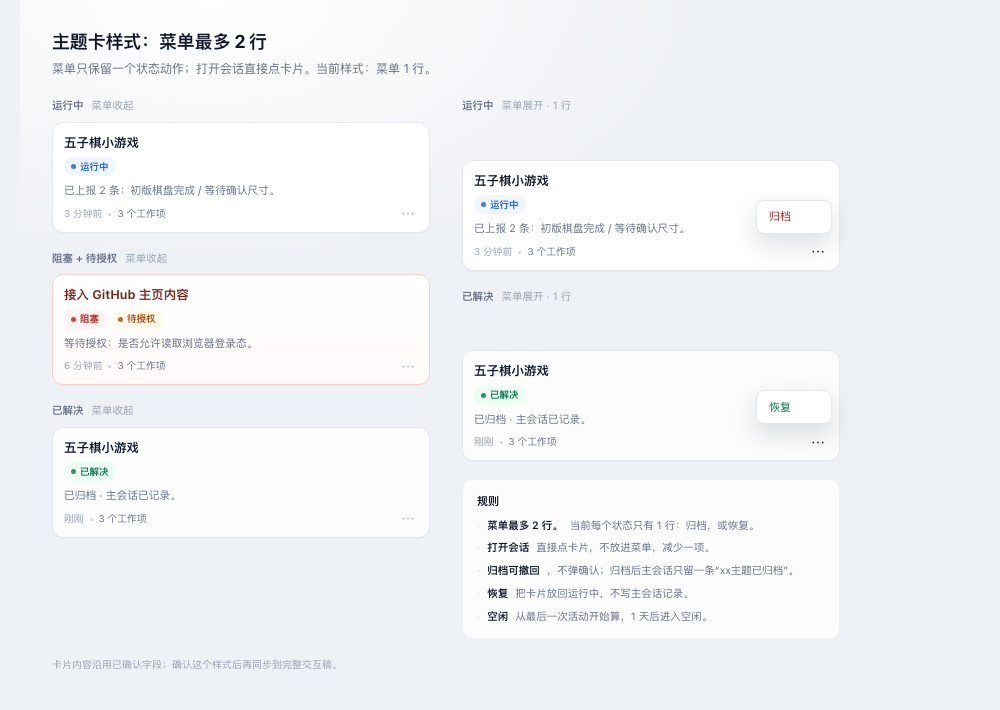
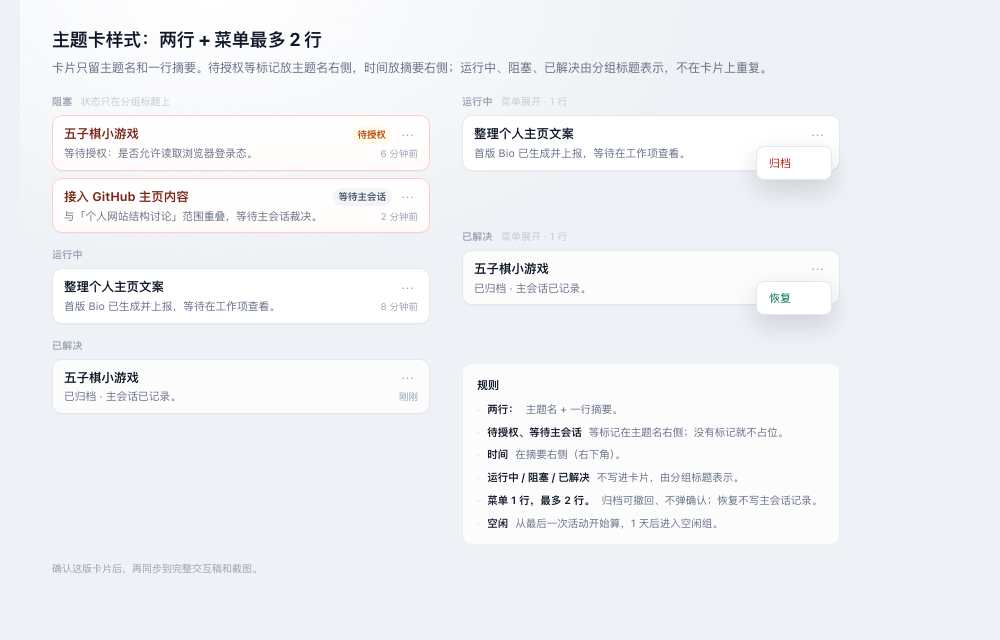
docs(design): 主题卡收成两行样式
主题卡只留主题名和一行摘要；待授权等标记放主题名右侧，时间放摘要右侧；
运行中、阻塞、已解决由分组标题表示，卡片不再重复状态和工作项数。
完整交互稿等这版样式确认后再同步。

diff --git a/docs/discussion/topic-card-style.html b/docs/discussion/topic-card-style.html
@@ -2,7 +2,7 @@
 <html lang="zh-CN">
 <head>
 <meta charset="utf-8">
-<title>主题卡样式：菜单最多 2 行</title>
+<title>主题卡样式：两行 + 菜单最多 2 行</title>
 <style>
   :root {
     --ink: #101828;
@@ -12,8 +12,6 @@
     --line-soft: #eef0f3;
     --canvas: #eef1f5;
     --card: #fff;
-    --blue: #175cd3;
-    --blue-soft: #eff6ff;
     --red: #b42318;
     --red-soft: #fef3f2;
     --amber: #b54708;
@@ -33,73 +31,100 @@
   .canvas {
     width: 960px;
     margin: 0 auto;
-    padding: 28px 32px 30px;
+    padding: 26px 32px;
     background:
       radial-gradient(700px 380px at 20% 0%, #ffffff 0%, rgba(255,255,255,0) 70%),
       var(--canvas);
   }
-  header { margin-bottom: 20px; }
+  header { margin-bottom: 16px; }
   h1 { margin: 0; font-size: 18px; font-weight: 700; letter-spacing: -.01em; }
-  .sub { margin-top: 5px; color: var(--muted); font-size: 12px; }
+  .sub { margin-top: 5px; max-width: 820px; color: var(--muted); font-size: 12px; line-height: 1.7; }
   .grid { display: flex; gap: 32px; align-items: flex-start; }
   .col { width: 378px; flex: none; }
-  .row { margin-bottom: 18px; }
-  .label { display: flex; align-items: center; gap: 8px; margin-bottom: 8px; color: var(--muted); font-size: 10.5px; font-weight: 600; }
-  .label span { color: var(--soft); font-weight: 400; }
+
+  .group-label {
+    display: flex;
+    align-items: center;
+    gap: 8px;
+    margin: 0 0 6px;
+    color: var(--soft);
+    font-size: 10px;
+    font-weight: 650;
+    letter-spacing: .03em;
+  }
+  .group-label span { color: #c3c9d4; font-weight: 400; letter-spacing: 0; }
+  .group-block { margin-bottom: 14px; }
+  .group-block .card + .card { margin-top: 7px; }
 
   .card {
     position: relative;
-    padding: 11px 11px 10px;
+    padding: 9px 11px 8px;
     border: 1px solid var(--line);
-    border-radius: 11px;
+    border-radius: 10px;
     background: var(--card);
     box-shadow: 0 1px 1px rgba(16, 24, 40, .025);
   }
   .card.blocked { border-color: #fecdca; background: linear-gradient(180deg, #fff 0%, #fffbfa 100%); }
   .card.resolved { background: #fcfcfd; }
-  .title { margin: 0 0 6px; font-size: 12.5px; font-weight: 650; line-height: 1.4; }
+  .head { display: flex; align-items: center; gap: 6px; }
+  .title {
+    flex: 1;
+    min-width: 0;
+    margin: 0;
+    font-size: 12.5px;
+    font-weight: 650;
+    line-height: 1.5;
+    white-space: nowrap;
+    overflow: hidden;
+    text-overflow: ellipsis;
+  }
   .card.blocked .title { color: #7a271a; }
-  .chips { display: flex; flex-wrap: wrap; gap: 5px; margin-bottom: 6px; }
-  .chip {
-    display: inline-flex;
-    align-items: center;
-    gap: 4px;
-    height: 19px;
-    padding: 0 7px;
+  .marker {
+    flex: none;
+    height: 18px;
+    padding: 0 6px;
     border-radius: 999px;
     font-size: 9.5px;
-    font-weight: 650;
+    line-height: 18px;
+    font-weight: 600;
     white-space: nowrap;
   }
-  .chip::before { content: ""; width: 5px; height: 5px; border-radius: 50%; background: currentColor; opacity: .8; }
-  .chip.red { color: var(--red); background: var(--red-soft); }
-  .chip.amber { color: var(--amber); background: var(--amber-soft); }
-  .chip.blue { color: var(--blue); background: var(--blue-soft); }
-  .chip.green { color: var(--green); background: var(--green-soft); }
-  .chip.gray { color: #475467; background: var(--gray-soft); }
-  .digest { margin: 0 0 8px; color: #667085; font-size: 10.75px; line-height: 1.55; }
-  .meta { display: flex; align-items: center; justify-content: space-between; gap: 8px; color: var(--soft); font-size: 9.75px; }
-  .meta .left { display: flex; align-items: center; gap: 6px; }
-  .dot { width: 3px; height: 3px; border-radius: 50%; background: #d0d5dd; }
-  .work { color: #667085; }
+  .marker.amber { color: var(--amber); background: var(--amber-soft); }
+  .marker.gray { color: #475467; background: var(--gray-soft); }
   .more {
-    padding: 0 2px;
+    flex: none;
+    width: 20px;
+    height: 18px;
+    padding: 0;
     border: 0;
+    border-radius: 5px;
     background: transparent;
     color: #98a2b3;
     font: inherit;
-    font-size: 14px;
-    line-height: 1;
+    font-size: 13px;
+    line-height: 18px;
     letter-spacing: 1px;
     cursor: pointer;
   }
-  .more.on { color: var(--ink); }
+  .more:hover { background: var(--gray-soft); color: var(--ink); }
+  .body { display: flex; align-items: baseline; gap: 10px; margin-top: 1px; }
+  .summary {
+    flex: 1;
+    min-width: 0;
+    margin: 0;
+    color: var(--muted);
+    font-size: 10.75px;
+    line-height: 1.55;
+    white-space: nowrap;
+    overflow: hidden;
+    text-overflow: ellipsis;
+  }
+  .time { flex: none; color: var(--soft); font-size: 9.5px; }
 
-  .card.has-menu { margin-top: 46px; }
   .menu {
     position: absolute;
+    top: 30px;
     right: 7px;
-    bottom: 36px;
     z-index: 3;
     min-width: 76px;
     padding: 3px;
@@ -126,9 +151,10 @@
   .menu button:hover { background: var(--gray-soft); }
   .menu .archive { color: var(--red); }
   .menu .restore { color: var(--green); }
+  .menu-row { margin-bottom: 58px; }
 
   .notes {
-    margin-top: 4px;
+    margin-top: 2px;
     padding: 13px 14px;
     border: 1px solid var(--line-soft);
     border-radius: 10px;
@@ -139,82 +165,99 @@
   .notes li { display: flex; gap: 7px; color: var(--muted); font-size: 10.5px; line-height: 1.6; }
   .notes li::before { content: "·"; color: #c3c9d4; }
   .notes b { color: var(--ink); font-weight: 600; }
-  .foot { margin-top: 18px; color: var(--soft); font-size: 10px; }
+  .foot { margin-top: 16px; color: var(--soft); font-size: 10px; }
 </style>
 </head>
 <body>
 <div class="canvas">
   <header>
-    <h1>主题卡样式：菜单最多 2 行</h1>
-    <div class="sub">菜单只保留一个状态动作；打开会话直接点卡片。当前样式：菜单 1 行。</div>
+    <h1>主题卡样式：两行 + 菜单最多 2 行</h1>
+    <div class="sub">卡片只留主题名和一行摘要。待授权等标记放主题名右侧，时间放摘要右侧；运行中、阻塞、已解决由分组标题表示，不在卡片上重复。</div>
   </header>
 
   <div class="grid">
     <div class="col">
-      <div class="row">
-        <div class="label">运行中 <span>菜单收起</span></div>
-        <article class="card">
-          <h3 class="title">五子棋小游戏</h3>
-          <div class="chips"><span class="chip blue">运行中</span></div>
-          <p class="digest">已上报 2 条：初版棋盘完成 / 等待确认尺寸。</p>
-          <div class="meta">
-            <span class="left">3 分钟前<span class="dot"></span><span class="work">3 个工作项</span></span>
-            <button class="more" aria-label="主题菜单">⋯</button>
-          </div>
-        </article>
-      </div>
-
-      <div class="row">
-        <div class="label">阻塞 + 待授权 <span>菜单收起</span></div>
+      <div class="group-block">
+        <div class="group-label">阻塞 <span>状态只在分组标题上</span></div>
         <article class="card blocked">
-          <h3 class="title">接入 GitHub 主页内容</h3>
-          <div class="chips"><span class="chip red">阻塞</span><span class="chip amber">待授权</span></div>
-          <p class="digest">等待授权：是否允许读取浏览器登录态。</p>
-          <div class="meta">
-            <span class="left">6 分钟前<span class="dot"></span><span class="work">3 个工作项</span></span>
+          <div class="head">
+            <h3 class="title">五子棋小游戏</h3>
+            <span class="marker amber">待授权</span>
             <button class="more" aria-label="主题菜单">⋯</button>
+          </div>
+          <div class="body">
+            <p class="summary">等待授权：是否允许读取浏览器登录态。</p>
+            <span class="time">6 分钟前</span>
+          </div>
+        </article>
+        <article class="card blocked">
+          <div class="head">
+            <h3 class="title">接入 GitHub 主页内容</h3>
+            <span class="marker gray">等待主会话</span>
+            <button class="more" aria-label="主题菜单">⋯</button>
+          </div>
+          <div class="body">
+            <p class="summary">与「个人网站结构讨论」范围重叠，等待主会话裁决。</p>
+            <span class="time">2 分钟前</span>
           </div>
         </article>
       </div>
 
-      <div class="row">
-        <div class="label">已解决 <span>菜单收起</span></div>
-        <article class="card resolved">
-          <h3 class="title">五子棋小游戏</h3>
-          <div class="chips"><span class="chip green">已解决</span></div>
-          <p class="digest">已归档 · 主会话已记录。</p>
-          <div class="meta">
-            <span class="left">刚刚<span class="dot"></span><span class="work">3 个工作项</span></span>
+      <div class="group-block">
+        <div class="group-label">运行中</div>
+        <article class="card">
+          <div class="head">
+            <h3 class="title">整理个人主页文案</h3>
             <button class="more" aria-label="主题菜单">⋯</button>
+          </div>
+          <div class="body">
+            <p class="summary">首版 Bio 已生成并上报，等待在工作项查看。</p>
+            <span class="time">8 分钟前</span>
+          </div>
+        </article>
+      </div>
+
+      <div class="group-block">
+        <div class="group-label">已解决</div>
+        <article class="card resolved">
+          <div class="head">
+            <h3 class="title">五子棋小游戏</h3>
+            <button class="more" aria-label="主题菜单">⋯</button>
+          </div>
+          <div class="body">
+            <p class="summary">已归档 · 主会话已记录。</p>
+            <span class="time">刚刚</span>
           </div>
         </article>
       </div>
     </div>
 
     <div class="col">
-      <div class="row">
-        <div class="label">运行中 <span>菜单展开 · 1 行</span></div>
-        <article class="card has-menu">
-          <h3 class="title">五子棋小游戏</h3>
-          <div class="chips"><span class="chip blue">运行中</span></div>
-          <p class="digest">已上报 2 条：初版棋盘完成 / 等待确认尺寸。</p>
-          <div class="meta">
-            <span class="left">3 分钟前<span class="dot"></span><span class="work">3 个工作项</span></span>
-            <button class="more on" aria-label="主题菜单">⋯</button>
+      <div class="menu-row">
+        <div class="group-label">运行中 <span>菜单展开 · 1 行</span></div>
+        <article class="card">
+          <div class="head">
+            <h3 class="title">整理个人主页文案</h3>
+            <button class="more" aria-label="主题菜单">⋯</button>
+          </div>
+          <div class="body">
+            <p class="summary">首版 Bio 已生成并上报，等待在工作项查看。</p>
+            <span class="time">8 分钟前</span>
           </div>
           <div class="menu"><button class="archive">归档</button></div>
         </article>
       </div>
 
-      <div class="row">
-        <div class="label">已解决 <span>菜单展开 · 1 行</span></div>
-        <article class="card resolved has-menu">
-          <h3 class="title">五子棋小游戏</h3>
-          <div class="chips"><span class="chip green">已解决</span></div>
-          <p class="digest">已归档 · 主会话已记录。</p>
-          <div class="meta">
-            <span class="left">刚刚<span class="dot"></span><span class="work">3 个工作项</span></span>
-            <button class="more on" aria-label="主题菜单">⋯</button>
+      <div class="menu-row">
+        <div class="group-label">已解决 <span>菜单展开 · 1 行</span></div>
+        <article class="card resolved">
+          <div class="head">
+            <h3 class="title">五子棋小游戏</h3>
+            <button class="more" aria-label="主题菜单">⋯</button>
+          </div>
+          <div class="body">
+            <p class="summary">已归档 · 主会话已记录。</p>
+            <span class="time">刚刚</span>
           </div>
           <div class="menu"><button class="restore">恢复</button></div>
         </article>
@@ -223,17 +266,18 @@
       <div class="notes">
         <h2>规则</h2>
         <ul>
-          <li><b>菜单最多 2 行。</b>当前每个状态只有 1 行：归档，或恢复。</li>
-          <li><b>打开会话</b>直接点卡片，不放进菜单，减少一项。</li>
-          <li><b>归档可撤回</b>，不弹确认；归档后主会话只留一条“xx主题已归档”。</li>
-          <li><b>恢复</b>把卡片放回运行中，不写主会话记录。</li>
-          <li><b>空闲</b>从最后一次活动开始算，1 天后进入空闲。</li>
+          <li><b>两行：</b>主题名 + 一行摘要。</li>
+          <li><b>待授权、等待主会话</b>等标记在主题名右侧；没有标记就不占位。</li>
+          <li><b>时间</b>在摘要右侧（右下角）。</li>
+          <li><b>运行中 / 阻塞 / 已解决</b>不写进卡片，由分组标题表示。</li>
+          <li><b>菜单 1 行，最多 2 行。</b>归档可撤回、不弹确认；恢复不写主会话记录。</li>
+          <li><b>空闲</b>从最后一次活动开始算，1 天后进入空闲组。</li>
         </ul>
       </div>
     </div>
   </div>
 
-  <div class="foot">卡片内容沿用已确认字段；确认这个样式后再同步到完整交互稿。</div>
+  <div class="foot">确认这版卡片后，再同步到完整交互稿和截图。</div>
 </div>
 </body>
 </html>
